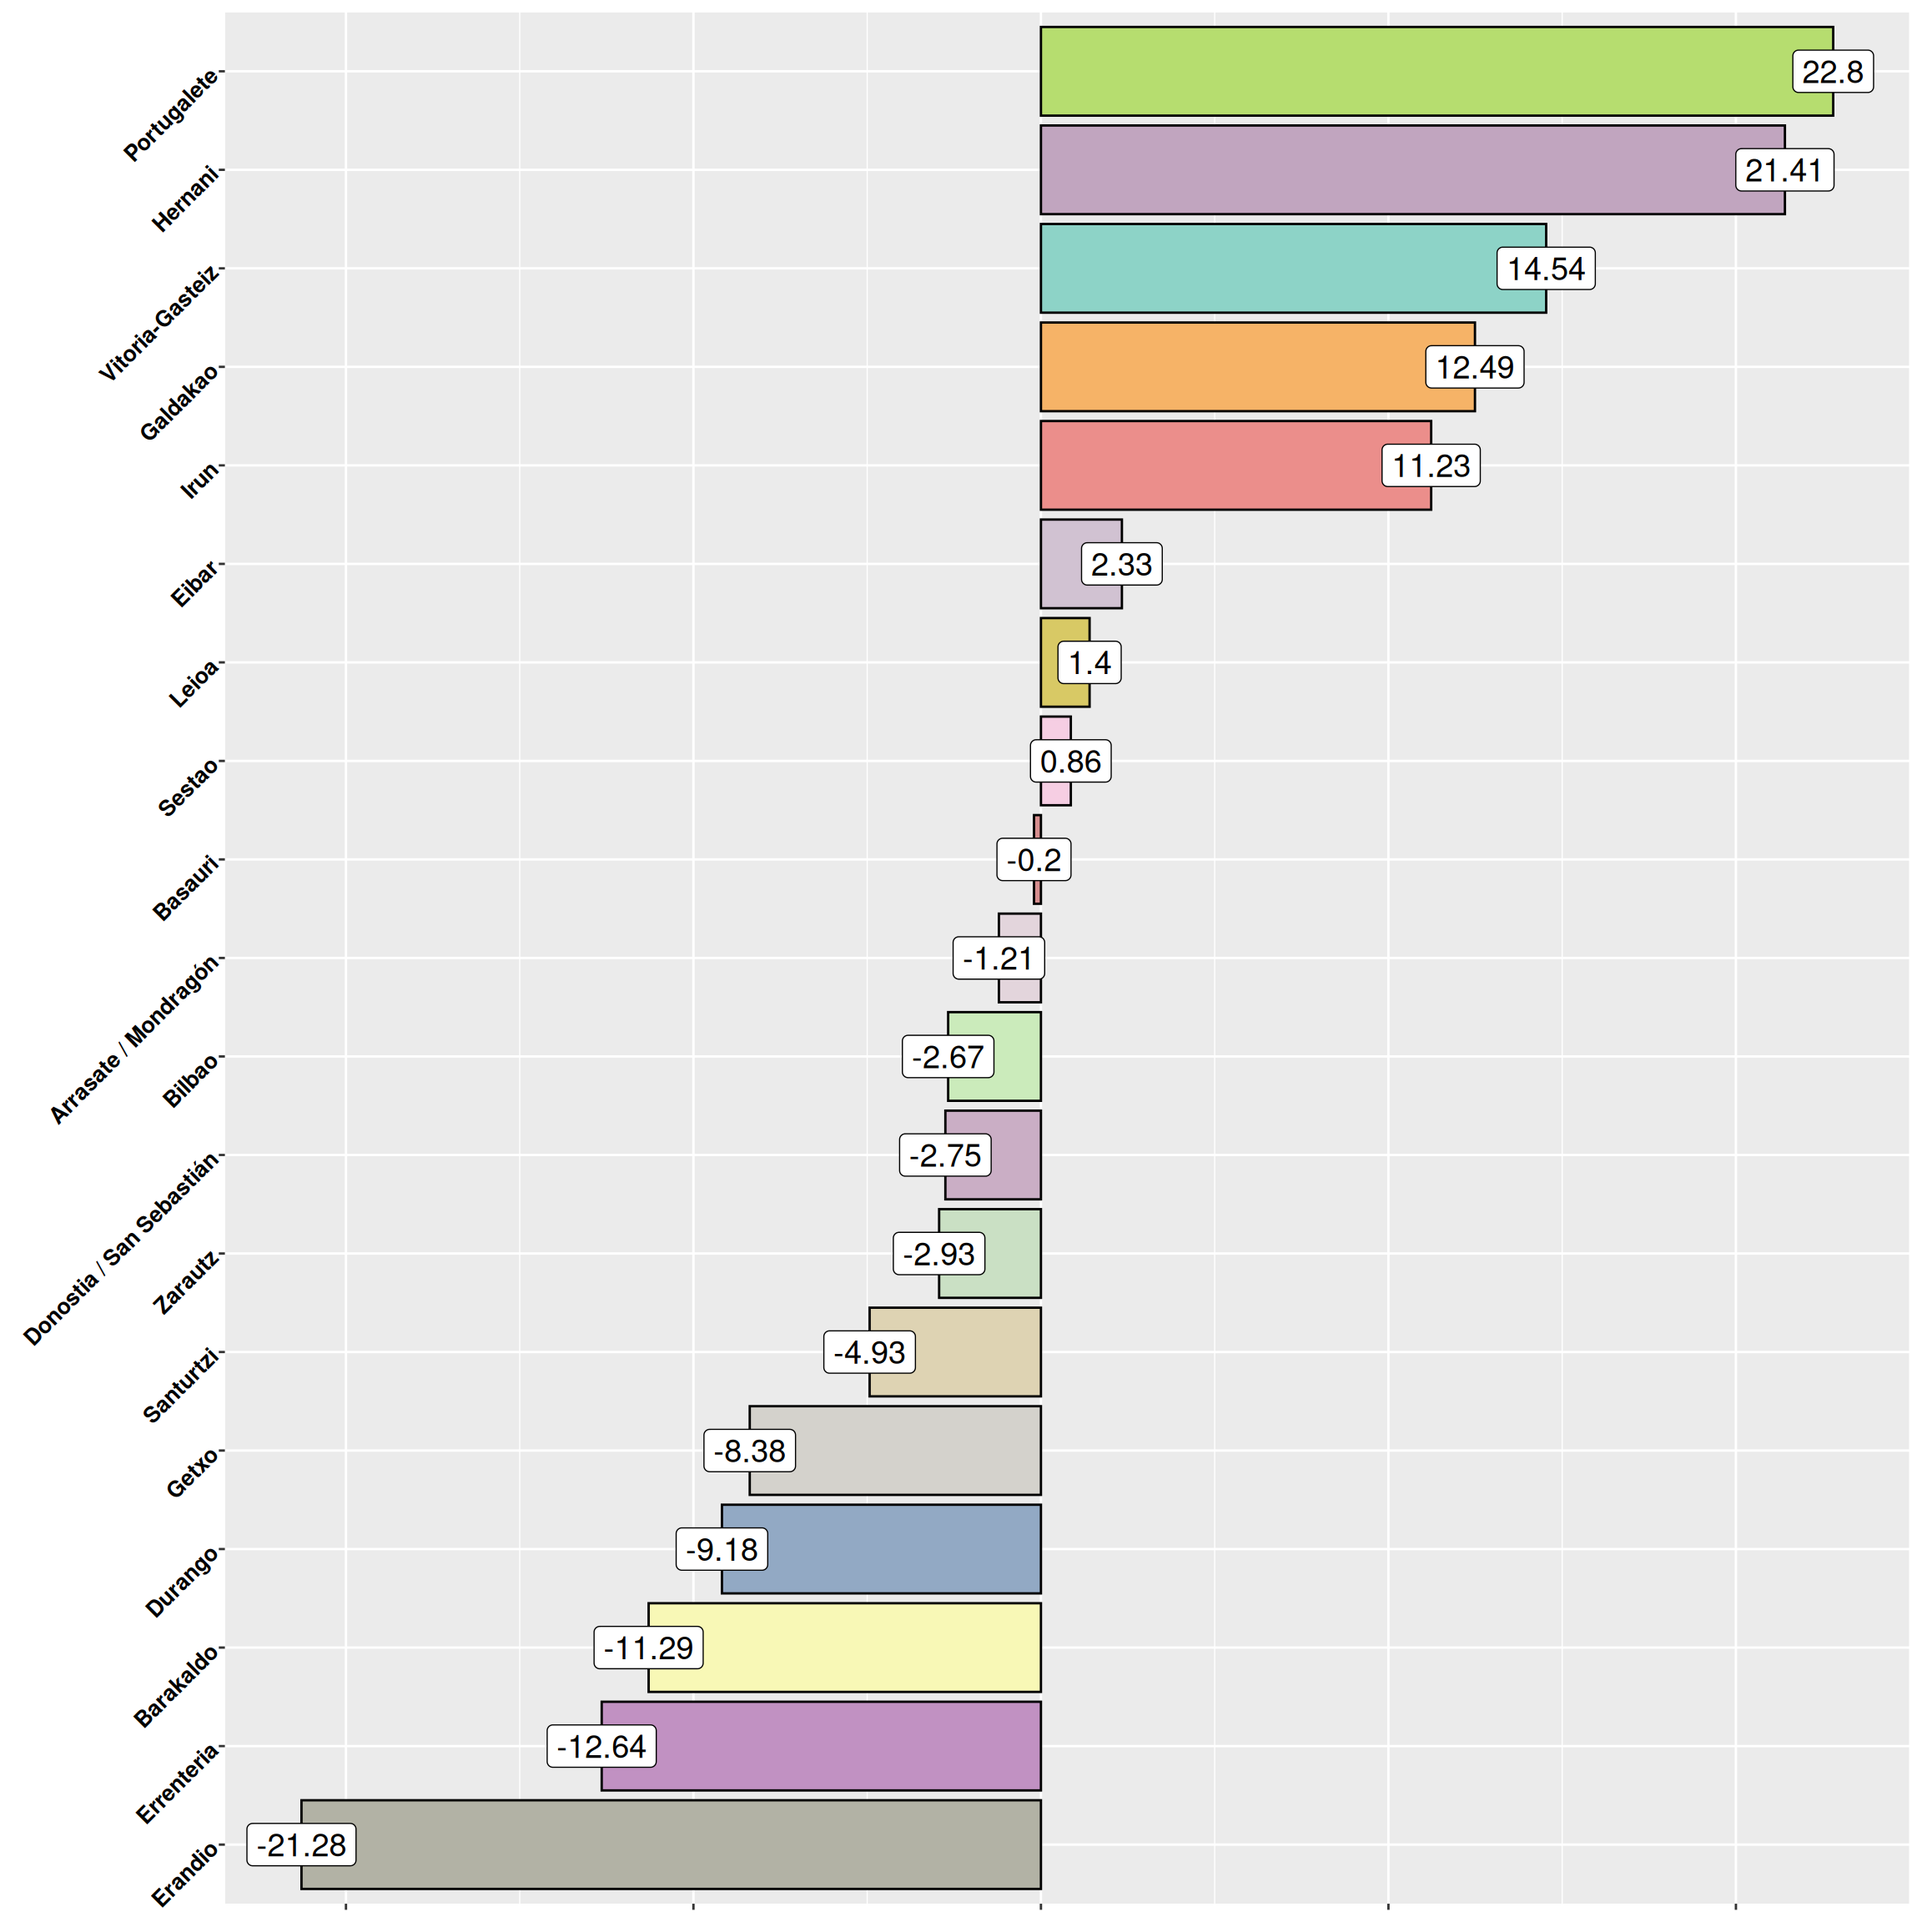
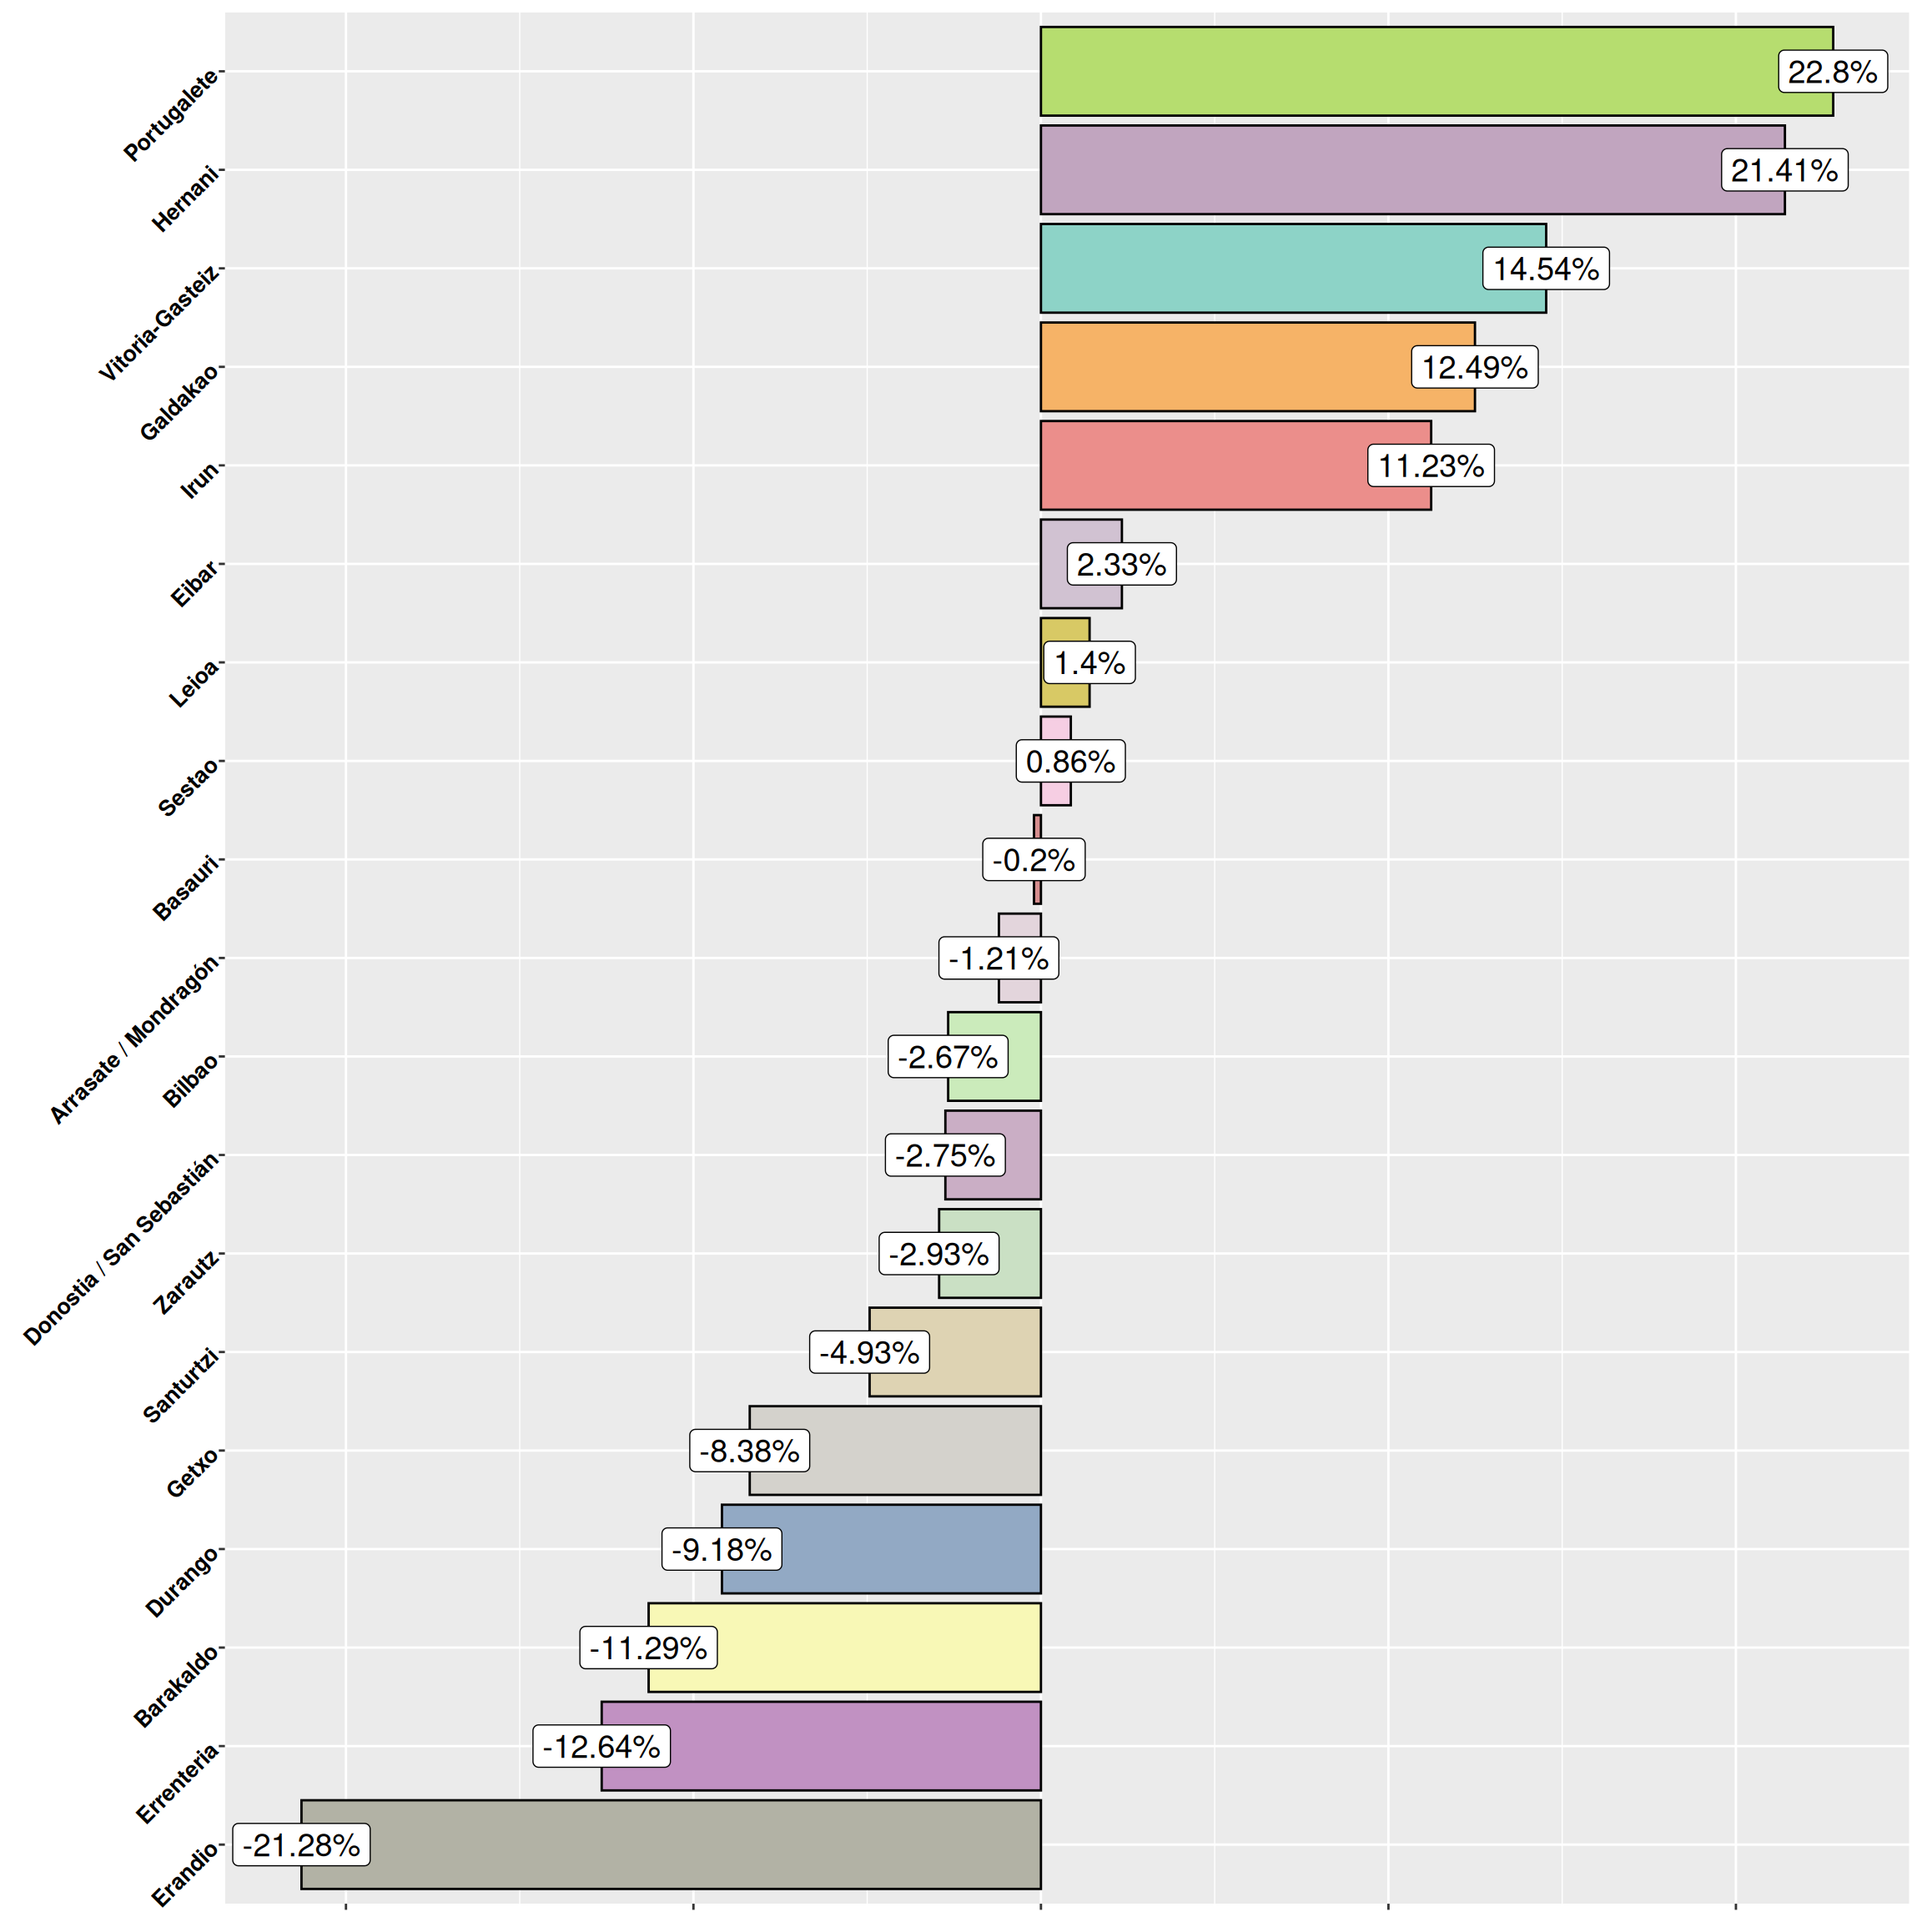
Built site for gh-pages

diff --git a/about.html b/about.html
@@ -183,7 +183,7 @@ ul.task-list li input[type="checkbox"] {
     }
       var localhostRegex = new RegExp(/^(?:http|https):\/\/localhost\:?[0-9]*\//);
       var mailtoRegex = new RegExp(/^mailto:/);
-        var filterRegex = new RegExp('/' + window.location.host + '/');
+        var filterRegex = new RegExp("https:\/\/ahedojl\.github\.io\/criminalidad\/");
       var isInternal = (href) => {
           return filterRegex.test(href) || localhostRegex.test(href) || mailtoRegex.test(href);
       }

diff --git a/index.html b/index.html
@@ -184,7 +184,7 @@ ul.task-list li input[type="checkbox"] {
     }
       var localhostRegex = new RegExp(/^(?:http|https):\/\/localhost\:?[0-9]*\//);
       var mailtoRegex = new RegExp(/^mailto:/);
-        var filterRegex = new RegExp('/' + window.location.host + '/');
+        var filterRegex = new RegExp("https:\/\/ahedojl\.github\.io\/criminalidad\/");
       var isInternal = (href) => {
           return filterRegex.test(href) || localhostRegex.test(href) || mailtoRegex.test(href);
       }

diff --git a/ciberdelincuencia.html b/ciberdelincuencia.html
@@ -750,7 +750,7 @@ Nota
     }
       var localhostRegex = new RegExp(/^(?:http|https):\/\/localhost\:?[0-9]*\//);
       var mailtoRegex = new RegExp(/^mailto:/);
-        var filterRegex = new RegExp('/' + window.location.host + '/');
+        var filterRegex = new RegExp("https:\/\/ahedojl\.github\.io\/criminalidad\/");
       var isInternal = (href) => {
           return filterRegex.test(href) || localhostRegex.test(href) || mailtoRegex.test(href);
       }

diff --git a/ciberdelincuencia01.html b/ciberdelincuencia01.html
@@ -737,7 +737,7 @@ Nota
     }
       var localhostRegex = new RegExp(/^(?:http|https):\/\/localhost\:?[0-9]*\//);
       var mailtoRegex = new RegExp(/^mailto:/);
-        var filterRegex = new RegExp('/' + window.location.host + '/');
+        var filterRegex = new RegExp("https:\/\/ahedojl\.github\.io\/criminalidad\/");
       var isInternal = (href) => {
           return filterRegex.test(href) || localhostRegex.test(href) || mailtoRegex.test(href);
       }

diff --git a/ciberdelincuencia02.html b/ciberdelincuencia02.html
@@ -737,7 +737,7 @@ Nota
     }
       var localhostRegex = new RegExp(/^(?:http|https):\/\/localhost\:?[0-9]*\//);
       var mailtoRegex = new RegExp(/^mailto:/);
-        var filterRegex = new RegExp('/' + window.location.host + '/');
+        var filterRegex = new RegExp("https:\/\/ahedojl\.github\.io\/criminalidad\/");
       var isInternal = (href) => {
           return filterRegex.test(href) || localhostRegex.test(href) || mailtoRegex.test(href);
       }

diff --git a/ciberdelincuencia03.html b/ciberdelincuencia03.html
@@ -737,7 +737,7 @@ Nota
     }
       var localhostRegex = new RegExp(/^(?:http|https):\/\/localhost\:?[0-9]*\//);
       var mailtoRegex = new RegExp(/^mailto:/);
-        var filterRegex = new RegExp('/' + window.location.host + '/');
+        var filterRegex = new RegExp("https:\/\/ahedojl\.github\.io\/criminalidad\/");
       var isInternal = (href) => {
           return filterRegex.test(href) || localhostRegex.test(href) || mailtoRegex.test(href);
       }

diff --git a/ciberdelincuencia04.html b/ciberdelincuencia04.html
@@ -737,7 +737,7 @@ Nota
     }
       var localhostRegex = new RegExp(/^(?:http|https):\/\/localhost\:?[0-9]*\//);
       var mailtoRegex = new RegExp(/^mailto:/);
-        var filterRegex = new RegExp('/' + window.location.host + '/');
+        var filterRegex = new RegExp("https:\/\/ahedojl\.github\.io\/criminalidad\/");
       var isInternal = (href) => {
           return filterRegex.test(href) || localhostRegex.test(href) || mailtoRegex.test(href);
       }

diff --git a/ciberdelincuencia05.html b/ciberdelincuencia05.html
@@ -737,7 +737,7 @@ Nota
     }
       var localhostRegex = new RegExp(/^(?:http|https):\/\/localhost\:?[0-9]*\//);
       var mailtoRegex = new RegExp(/^mailto:/);
-        var filterRegex = new RegExp('/' + window.location.host + '/');
+        var filterRegex = new RegExp("https:\/\/ahedojl\.github\.io\/criminalidad\/");
       var isInternal = (href) => {
           return filterRegex.test(href) || localhostRegex.test(href) || mailtoRegex.test(href);
       }

diff --git a/ciberdelincuencia06.html b/ciberdelincuencia06.html
@@ -737,7 +737,7 @@ Nota
     }
       var localhostRegex = new RegExp(/^(?:http|https):\/\/localhost\:?[0-9]*\//);
       var mailtoRegex = new RegExp(/^mailto:/);
-        var filterRegex = new RegExp('/' + window.location.host + '/');
+        var filterRegex = new RegExp("https:\/\/ahedojl\.github\.io\/criminalidad\/");
       var isInternal = (href) => {
           return filterRegex.test(href) || localhostRegex.test(href) || mailtoRegex.test(href);
       }

diff --git a/ciberdelincuencia07.html b/ciberdelincuencia07.html
@@ -736,7 +736,7 @@ Nota
     }
       var localhostRegex = new RegExp(/^(?:http|https):\/\/localhost\:?[0-9]*\//);
       var mailtoRegex = new RegExp(/^mailto:/);
-        var filterRegex = new RegExp('/' + window.location.host + '/');
+        var filterRegex = new RegExp("https:\/\/ahedojl\.github\.io\/criminalidad\/");
       var isInternal = (href) => {
           return filterRegex.test(href) || localhostRegex.test(href) || mailtoRegex.test(href);
       }

diff --git a/homicidio01.html b/homicidio01.html
@@ -737,7 +737,7 @@ Nota
     }
       var localhostRegex = new RegExp(/^(?:http|https):\/\/localhost\:?[0-9]*\//);
       var mailtoRegex = new RegExp(/^mailto:/);
-        var filterRegex = new RegExp('/' + window.location.host + '/');
+        var filterRegex = new RegExp("https:\/\/ahedojl\.github\.io\/criminalidad\/");
       var isInternal = (href) => {
           return filterRegex.test(href) || localhostRegex.test(href) || mailtoRegex.test(href);
       }

diff --git a/homicidio02.html b/homicidio02.html
@@ -737,7 +737,7 @@ Nota
     }
       var localhostRegex = new RegExp(/^(?:http|https):\/\/localhost\:?[0-9]*\//);
       var mailtoRegex = new RegExp(/^mailto:/);
-        var filterRegex = new RegExp('/' + window.location.host + '/');
+        var filterRegex = new RegExp("https:\/\/ahedojl\.github\.io\/criminalidad\/");
       var isInternal = (href) => {
           return filterRegex.test(href) || localhostRegex.test(href) || mailtoRegex.test(href);
       }
